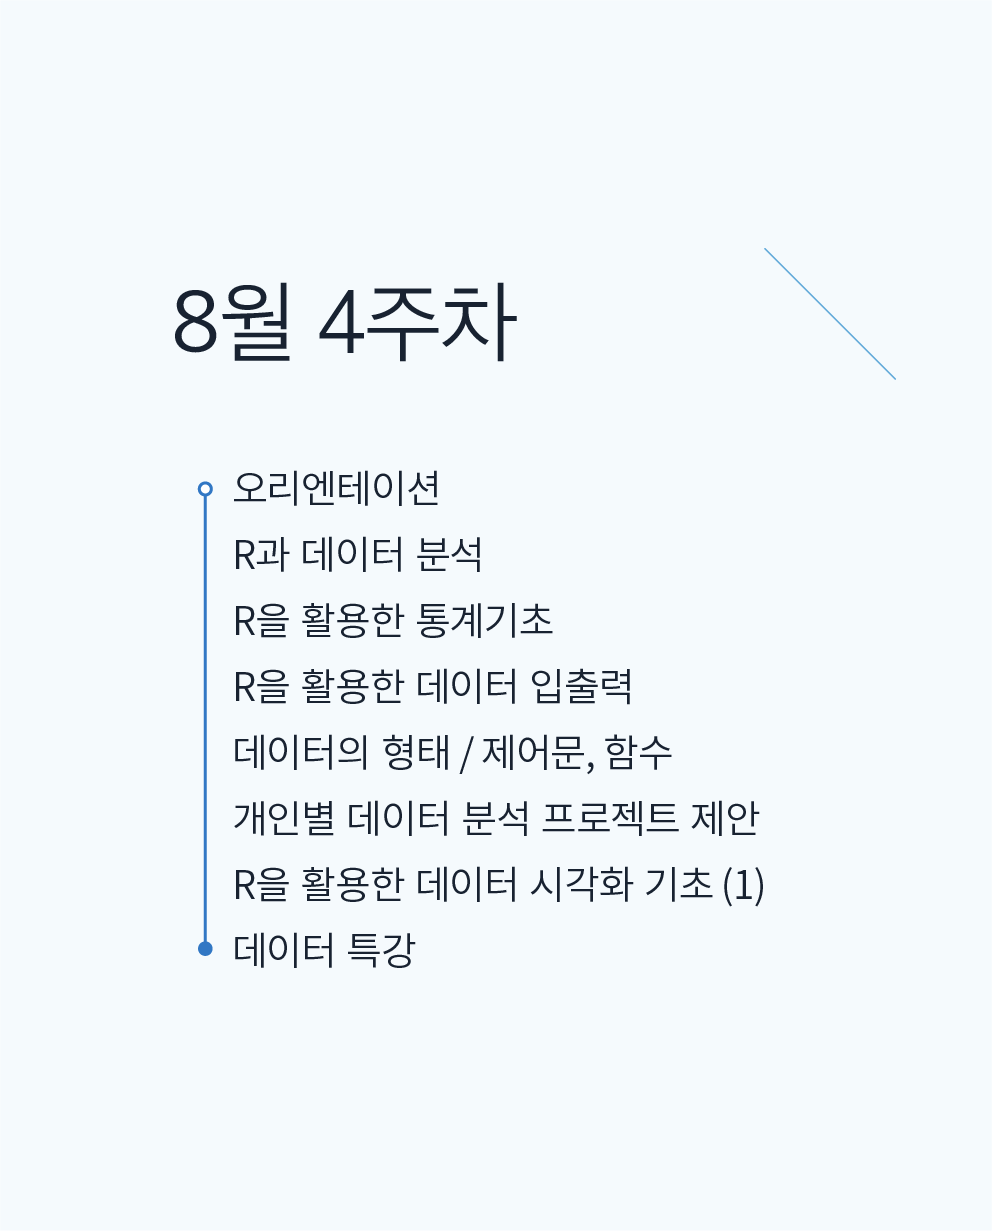
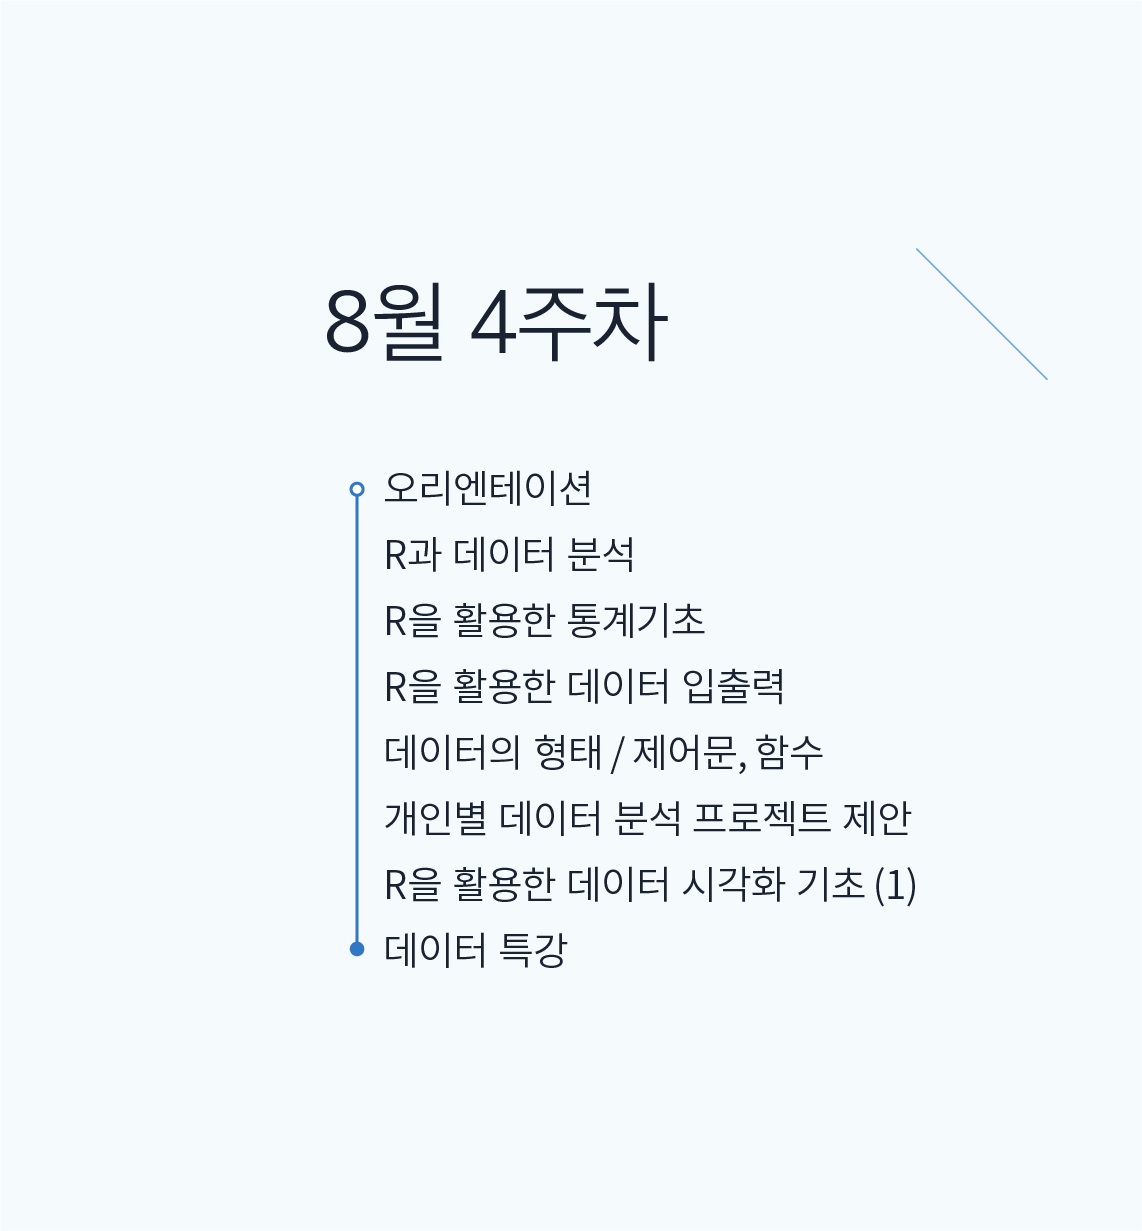
교육과정 오류 수정 최종

diff --git a/introduce.html b/introduce.html
@@ -411,7 +411,7 @@
 			<span onclick="this.parentElement.style.display='none'" class="w3-button w3-red w3-display-topright">x</span>
 		<div class="scroll-pane ui-widget ui-widget-header ui-corner-all">
 			<div class="scroll-content" style="border:none; background-color:transparent">
-			  <div class="scroll-content-item ui-widget-header" style="width:331px"><img src="schedule/schedule_8.42.png" width="331px" height="410px"></div>
+			  <div class="scroll-content-item ui-widget-header" style="width:381px"><img src="schedule/schedule_8.4.png" width="381px" height="410px"></div>
 			  <div class="scroll-content-item ui-widget-header" style="width:414px"><img src="schedule/schedule_9.1.png" width="414px" height="410px"></div>
 			  <div class="scroll-content-item ui-widget-header" style="width:387px"><img src="schedule/schedule_9.2.png" width="387px" height="410px"></div>
 			  <div class="scroll-content-item ui-widget-header" style="width:431px"><img src="schedule/schedule_9.3.png" width="431px" height="410px"></div>

diff --git a/css/main2.css b/css/main2.css
@@ -363,7 +363,7 @@ max-width: 1920px;
 
 
 	.scroll-pane { overflow: auto; width: 99%; float:left;}
-	.scroll-content { width: 6200px; float: left; border:none}
+	.scroll-content { width: 6130px; float: left; border:none}
 	.scroll-content-item { height: 410px; float: left; margin: 0px; font-size: 3em; line-height: 96px; text-align: center; border:none }
 	.scroll-bar-wrap { clear: left; padding: 0 4px 0 2px; margin: 0 -1px -1px -1px; }
 	.scroll-bar-wrap .ui-slider { background: none; border:0; height: 2em; margin: 0 auto;  border:none}
